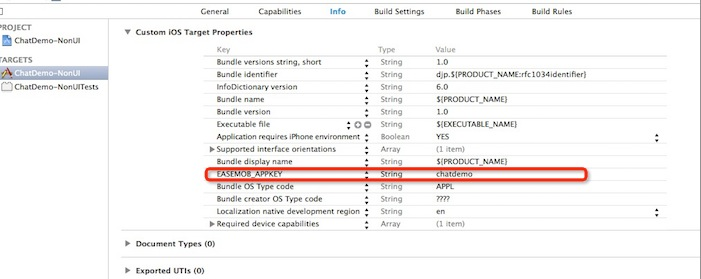
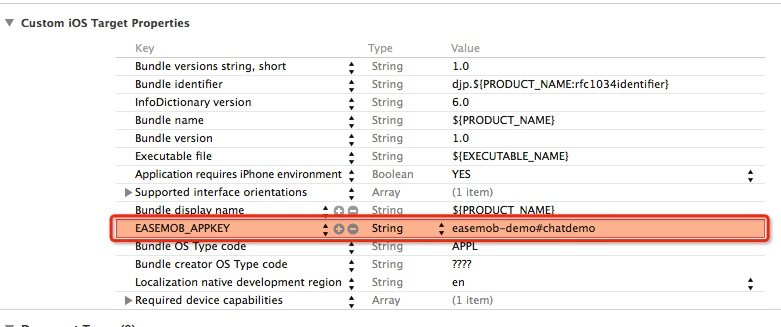
update.

diff --git a/docs/emchat/ios/quickstart.md b/docs/emchat/ios/quickstart.md
@@ -60,6 +60,8 @@ layout: docs
 ![alt text](info.png "info")
 
  *	关于EASEMOB_APPKEY，请登录或注册环信开发者[(http://www.easemob.com)](http://www.easemob.com),登陆管理后台,申请APPKEY后，进行相关配置。（测试APPKEY为chatdemo）
+ *	此appKey写法为临时解决方案，#前面为orgName,#后面为appKey
+
   
  
 
